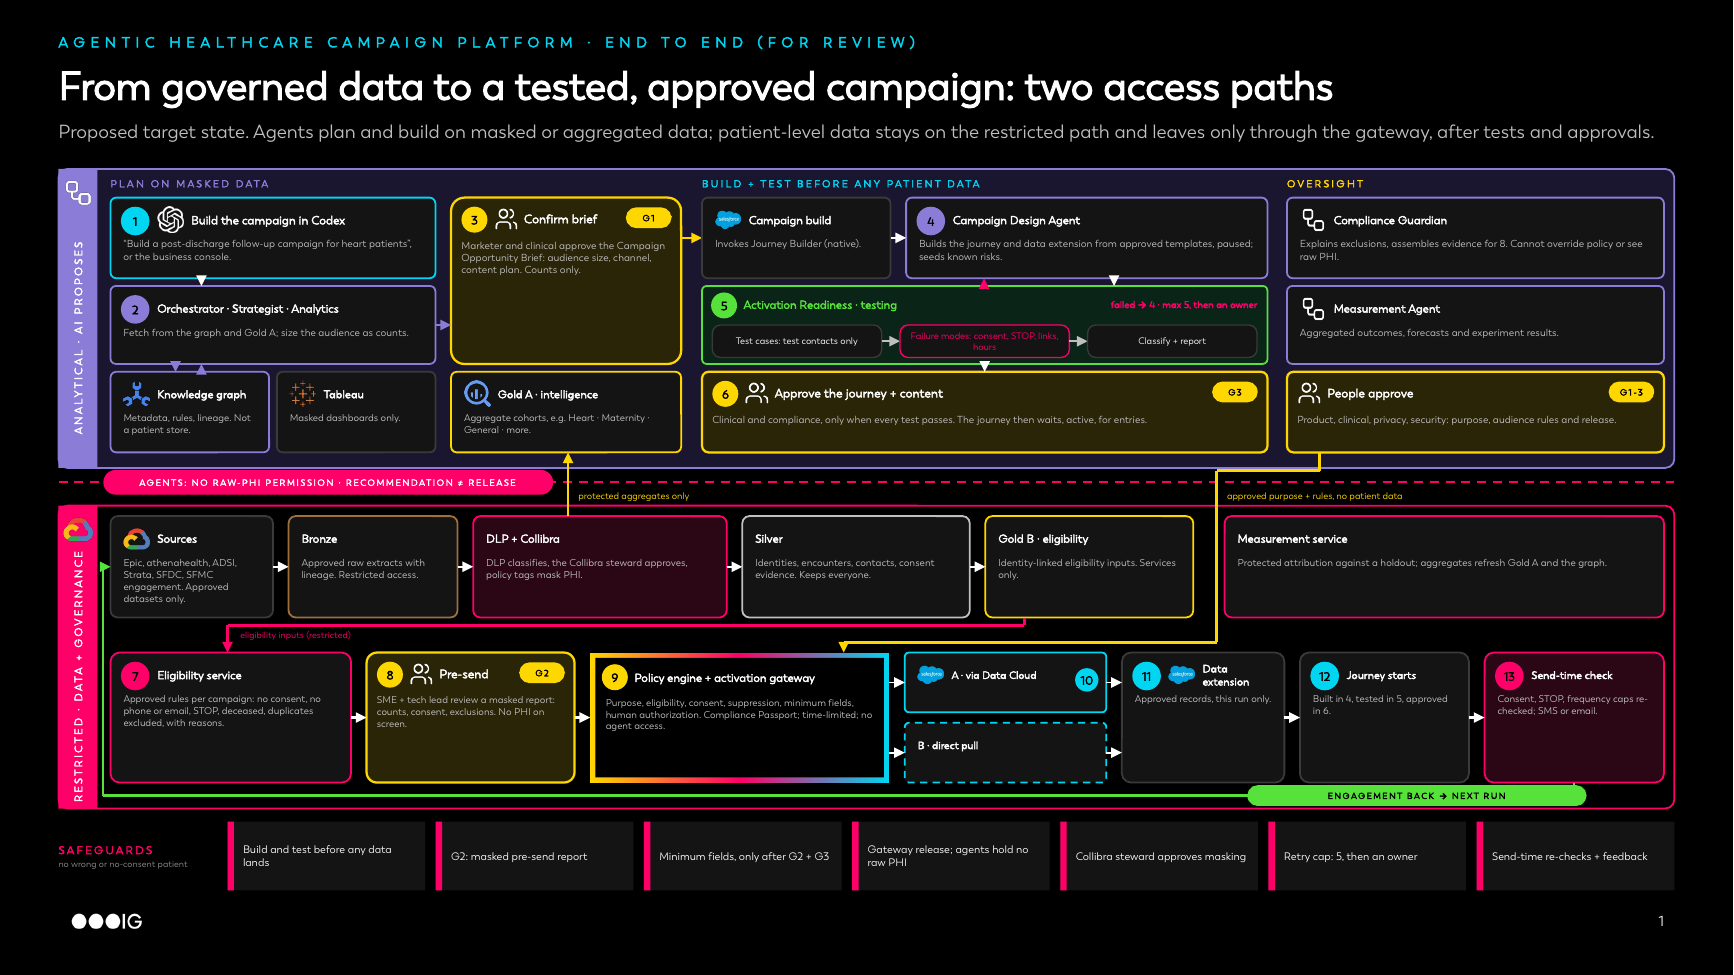
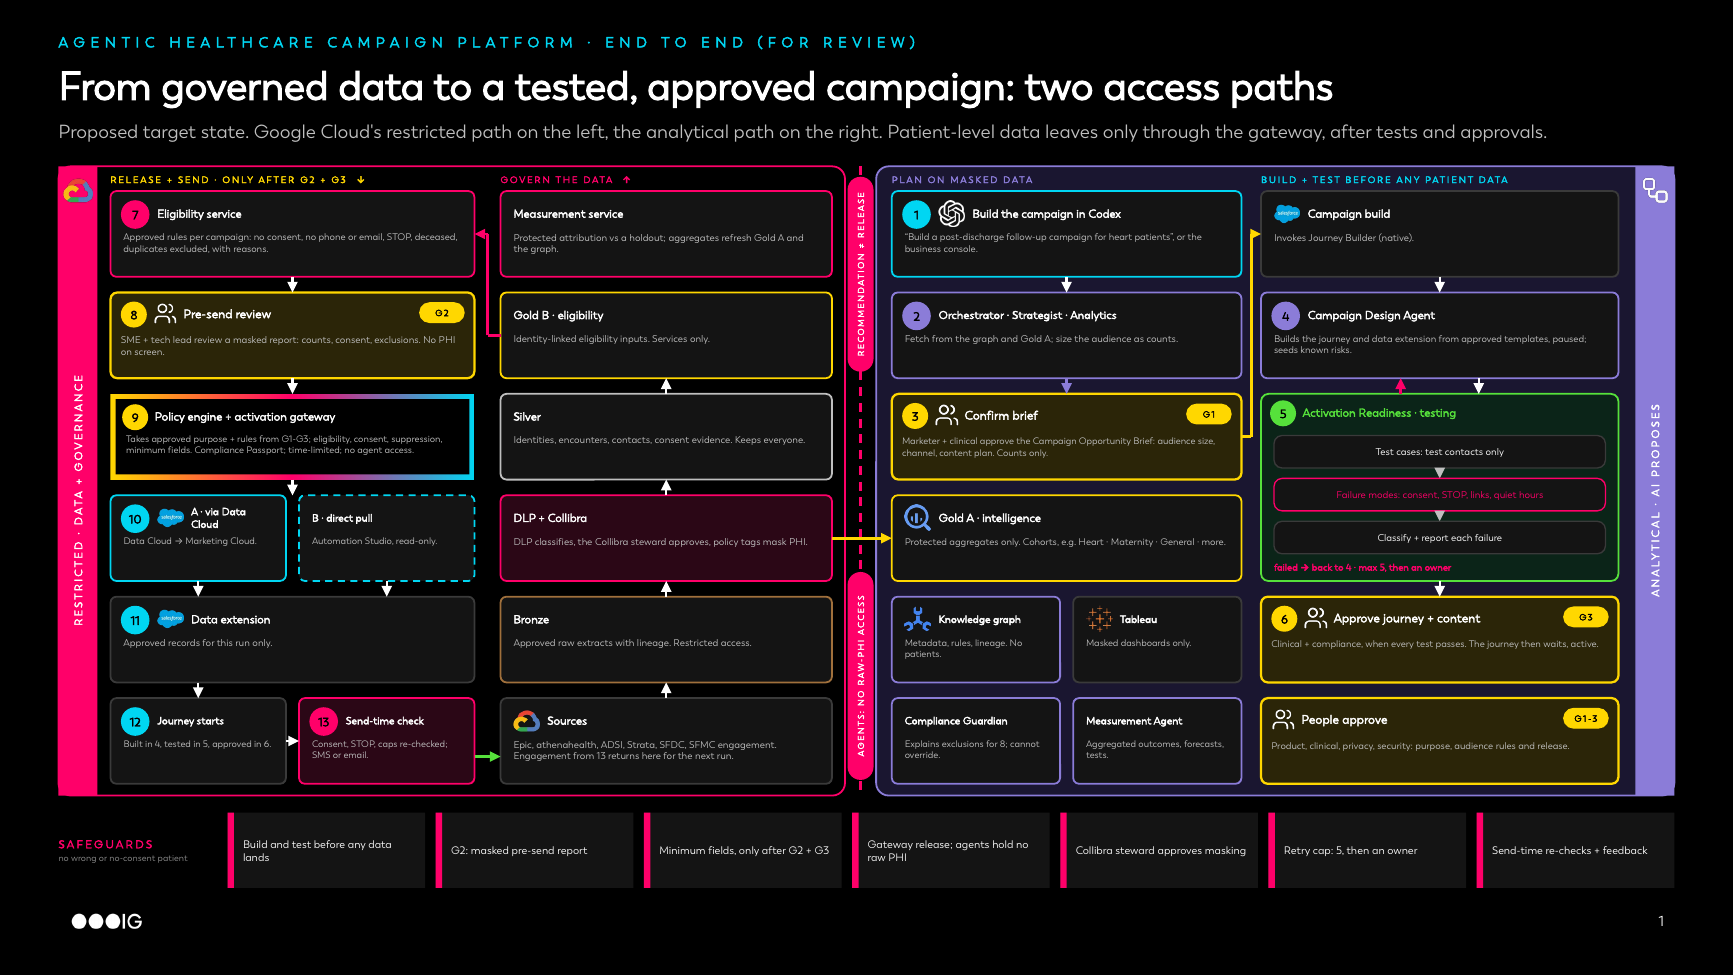
Combined review image: vertical layout, Google Cloud left, analytical right
Restricted data and release path on the left (data rises, release runs
top-down), analytical path on the right, vertical trust boundary between.
Image only; the deck is unchanged.

Claude-Session: https://claude.ai/code/session_01Hf94kqMzSofkkrQm7kpNba

diff --git a/poc/data_harness/combined_flow.py b/poc/data_harness/combined_flow.py
@@ -27,166 +27,144 @@ def build(prs, layout):
     s, cv = new_slide(prs, layout)
     dark_header(cv, "AGENTIC HEALTHCARE CAMPAIGN PLATFORM · END TO END (FOR REVIEW)",
                 "From governed data to a tested, approved campaign: two access paths",
-                "Proposed target state. Agents plan and build on masked or aggregated data; patient-level data stays "
-                "on the restricted path and leaves only through the gateway, after tests and approvals.")
-    # ---------------------------------------------------------------- analytical zone
-    zy, zh = 1.3, 2.3
-    cv.rect(0.45, zy, 12.43, zh, TINT[VIO], VIO, 1.0, R, 0.03)
-    side(cv, 0.45, zy, zh, "ANALYTICAL · AI PROPOSES", VIO, "harness")
-    r1, h1 = 1.52, 0.62
-    r2, h2 = 2.2, 0.6
-    r3, h3 = 2.86, 0.62
-    for x, t, c in ((0.85, "PLAN ON MASKED DATA", VIO), (5.4, "BUILD + TEST BEFORE ANY PATIENT DATA", CYAN),
-                    (9.9, "OVERSIGHT", YELLOW)):
-        cv.text(x, 1.32, 4.3, 0.18, t, size=5.6, bold=True, color=c, track=120, anchor=MSO_ANCHOR.MIDDLE)
-    # plan
-    lx, lw, rx, rw = 0.85, 2.5, 3.47, 1.77
-    item(cv, lx, r1, lw, h1, "Build the campaign in Codex", "“Build a post-discharge follow-up campaign for heart "
-         "patients”, or the business console.", line=CYAN, n=1, icon="openai-white", bsize=5.6, tsize=6.6)
-    item(cv, lx, r2, lw, h2, "Orchestrator · Strategist · Analytics", "Fetch from the graph and Gold A; size the "
-         "audience as counts.", line=VIO, n=2, ncolor=VIO, bsize=5.6, tsize=6.4)
-    gw_ = (lw - 0.06) / 2
-    item(cv, lx, r3, gw_, h3, "Knowledge graph", "Metadata, rules, lineage. Not a patient store.", line=VIO,
-         icon="googlecloudspanner", bsize=5.4, tsize=6.2)
-    item(cv, lx + gw_ + 0.06, r3, gw_, h3, "Tableau", "Masked dashboards only.", line=EDGE, icon="tableau",
-         bsize=5.4, tsize=6.2)
-    gatecard(cv, rx, r1, rw, r2 + h2 - r1, "G1", "Confirm brief", "Marketer and clinical approve the Campaign "
-             "Opportunity Brief: audience size, channel, content plan. Counts only.", n=3, bsize=5.6)
-    item(cv, rx, r3, rw, h3, "Gold A · intelligence", "Aggregate cohorts, e.g. Heart · Maternity · General · more.",
-         line=YELLOW, icon="googlebigquery", bsize=5.4, tsize=6.2)
-    cv.arrow(lx + 0.7, r1 + h1, lx + 0.7, r2, WHITE, 1.25)
-    cv.arrow(lx + 0.5, r2 + h2, lx + 0.5, r3, VIO, 1.25)
-    cv.arrow(lx + 0.7, r3, lx + 0.7, r2 + h2, VIO, 1.25)
-    cv.arrow(lx + lw, r2 + h2 / 2, rx, r2 + h2 / 2, VIO, 1.25)
-    cv.arrow(rx + rw, r1 + 0.31, 5.4, r1 + 0.31, YELLOW, 1.5)
-    # build + test
-    bx, bw = 5.4, 4.35
-    item(cv, bx, r1, 1.45, h1, "Campaign build", "Invokes Journey Builder (native).", icon="salesforce",
-         bsize=5.6, tsize=6.4)
-    dx = bx + 1.57
-    item(cv, dx, r1, bx + bw - dx, h1, "Campaign Design Agent", "Builds the journey and data extension from "
-         "approved templates, paused; seeds known risks.", line=VIO, n=4, ncolor=VIO, bsize=5.6, tsize=6.4)
-    cv.arrow(bx + 1.45, r1 + h1 / 2, dx, r1 + h1 / 2, WHITE, 1.25)
-    cv.rect(bx, r2, bw, h2, "0B2418", GREEN, 1.0, R, 0.06)
-    badge(cv, bx + 0.07, r2 + 0.05, 5, GREEN, 0.2)
-    cv.text(bx + 0.32, r2 + 0.02, 2.4, 0.24, "Activation Readiness · testing", size=6.4, bold=True, color=GREEN,
+                "Proposed target state. Google Cloud's restricted path on the left, the analytical path on the "
+                "right. Patient-level data leaves only through the gateway, after tests and approvals.")
+    zt, zb = 1.28, 6.12
+    rows = [1.47 + k * 0.78 for k in range(6)]
+    rh = 0.66
+
+    def mid(k):
+        return rows[k] + rh / 2
+    # ---------------------------------------------------------------- left: restricted (Google Cloud)
+    cv.rect(0.45, zt, 6.05, zb - zt, BLACK, MAGENTA, 1.0, R, 0.02)
+    side(cv, 0.45, zt, zb - zt, "RESTRICTED · DATA + GOVERNANCE", MAGENTA, "googlecloud")
+    ex, ew = 0.85, 2.8          # release + send, top-down
+    dx, dw = 3.85, 2.55         # governed data, bottom-up
+    cv.text(ex, 1.3, ew, 0.16, "RELEASE + SEND · ONLY AFTER G2 + G3  ↓", size=5.2, bold=True, color=YELLOW,
+            track=100, anchor=MSO_ANCHOR.MIDDLE)
+    cv.text(dx, 1.3, dw, 0.16, "GOVERN THE DATA  ↑", size=5.2, bold=True, color=MAGENTA, track=100,
             anchor=MSO_ANCHOR.MIDDLE)
-    cv.text(bx + 2.3, r2 + 0.02, bw - 2.38, 0.24, "failed → 4 · max 5, then an owner", size=5.4, bold=True,
-            color=MAGENTA, align=PP_ALIGN.RIGHT, anchor=MSO_ANCHOR.MIDDLE)
-    chips = [("Test cases: test contacts only", EDGE), ("Failure modes: consent, STOP, links, hours", MAGENTA),
-             ("Classify + report", EDGE)]
-    cw = (bw - 0.16 - 2 * 0.14) / 3
-    for k, (t, c) in enumerate(chips):
-        x = bx + 0.08 + k * (cw + 0.14)
-        cv.rect(x, r2 + 0.3, cw, 0.25, CARD, c, 0.75, R, 0.25)
-        cv.text(x, r2 + 0.3, cw, 0.25, t, size=5.2, color=MAGENTA if k == 1 else WHITE, align=PP_ALIGN.CENTER,
-                anchor=MSO_ANCHOR.MIDDLE)
-        if k < 2:
-            cv.arrow(x + cw, r2 + 0.425, x + cw + 0.14, r2 + 0.425, SOFT, 1.0)
-    cv.arrow(dx + 1.6, r1 + h1, dx + 1.6, r2, WHITE, 1.25)
-    cv.arrow(dx + 0.6, r2, dx + 0.6, r1 + h1, MAGENTA, 1.5)
-    gatecard(cv, bx, r3, bw, h3, "G3", "Approve the journey + content", "Clinical and compliance, only when every "
-             "test passes. The journey then waits, active, for entries.", n=6, bsize=5.6)
-    cv.arrow(bx + bw / 2, r2 + h2, bx + bw / 2, r3, WHITE, 1.25)
-    # oversight
-    ox, ow = 9.9, 2.9
-    item(cv, ox, r1, ow, h1, "Compliance Guardian", "Explains exclusions, assembles evidence for 8. Cannot override "
-         "policy or see raw PHI.", line=VIO, icon="harness", bsize=5.6, tsize=6.4)
-    item(cv, ox, r2, ow, h2, "Measurement Agent", "Aggregated outcomes, forecasts and experiment results.",
-         line=VIO, icon="harness", bsize=5.6, tsize=6.4)
-    gatecard(cv, ox, r3, ow, h3, "G1-3", "People approve", "Product, clinical, privacy, security: purpose, "
-             "audience rules and release.", bsize=5.6)
-    # ---------------------------------------------------------------- trust boundary
-    by = 3.71
-    cv.arrow(0.45, by, 12.88, by, MAGENTA, 1.25, dash="dash", head=False)
-    pill(cv, 0.8, by - 0.09, 3.45, "AGENTS: NO RAW-PHI PERMISSION · RECOMMENDATION ≠ RELEASE", MAGENTA, True,
-         h=0.18, size=5, tcolor=WHITE)
-    # ---------------------------------------------------------------- restricted zone
-    ry, rh = 3.89, 2.33
-    cv.rect(0.45, ry, 12.43, rh, BLACK, MAGENTA, 1.0, R, 0.03)
-    side(cv, 0.45, ry, rh, "RESTRICTED · DATA + GOVERNANCE", MAGENTA, "googlecloud")
-    ay, ah = 3.97, 0.78
-    rowa = [("Sources", "Epic, athenahealth, ADSI, Strata, SFDC, SFMC engagement. Approved datasets only.",
-             EDGE, CARD, "googlecloud", 1.25),
-            ("Bronze", "Approved raw extracts with lineage. Restricted access.", "A0703C", CARD, None, 1.3),
+    data = [("Measurement service", "Protected attribution vs a holdout; aggregates refresh Gold A and the graph.",
+             MAGENTA, CARD, None),
+            ("Gold B · eligibility", "Identity-linked eligibility inputs. Services only.", YELLOW, CARD, None),
+            ("Silver", "Identities, encounters, contacts, consent evidence. Keeps everyone.", SOFT, CARD, None),
             ("DLP + Collibra", "DLP classifies, the Collibra steward approves, policy tags mask PHI.", MAGENTA,
-             TINT[MAGENTA], None, 1.95),
-            ("Silver", "Identities, encounters, contacts, consent evidence. Keeps everyone.", SOFT, CARD, None, 1.75),
-            ("Gold B · eligibility", "Identity-linked eligibility inputs. Services only.", YELLOW, CARD, None, 1.6)]
-    x = 0.85
-    pos = {}
-    for t, d, ln, fl, ic, w in rowa:
-        item(cv, x, ay, w, ah, t, d, line=ln, fill=fl, icon=ic, bsize=5.5, tsize=6.4)
-        pos[t] = (x, w)
-        x += w + 0.12
-    mx = x + 0.12
-    item(cv, mx, ay, 12.8 - mx, ah, "Measurement service", "Protected attribution against a holdout; aggregates "
-         "refresh Gold A and the graph.", line=MAGENTA, bsize=5.5, tsize=6.4)
-    keys = [r[0] for r in rowa]
-    for k1, k2 in zip(keys, keys[1:]):
-        x1 = pos[k1][0] + pos[k1][1]
-        cv.arrow(x1, ay + ah / 2, x1 + 0.12, ay + ah / 2, WHITE, 1.25)
-    # DLP -> Gold A, across the boundary
-    gx_ = rx + 0.9
-    cv.arrow(gx_, ay, gx_, r3 + h3, YELLOW, 1.5)
-    cv.text(gx_ + 0.08, 3.75, 1.6, 0.12, "protected aggregates only", size=5.2, color=YELLOW,
-            anchor=MSO_ANCHOR.MIDDLE)
+             TINT[MAGENTA], None),
+            ("Bronze", "Approved raw extracts with lineage. Restricted access.", "A0703C", CARD, None),
+            ("Sources", "Epic, athenahealth, ADSI, Strata, SFDC, SFMC engagement. Engagement from 13 returns "
+             "here for the next run.", EDGE, CARD, "googlecloud")]
+    for k, (t, d, ln, fl, ic) in enumerate(data):
+        item(cv, dx, rows[k], dw, rh, t, d, line=ln, fill=fl, icon=ic, bsize=5.4, tsize=6.4)
+    for k in range(5, 1, -1):                      # Sources -> Bronze -> DLP -> Silver -> Gold B
+        cv.arrow(dx + dw / 2, rows[k], dx + dw / 2, rows[k - 1] + rh, WHITE, 1.25)
     # release + send
-    by_, bh = 5.02, 1.0
-    bx_ = [0.85]
-    widths = [1.85, 1.6, 2.3, 1.55, 1.25, 1.3]
-    for w in widths:
-        bx_.append(bx_[-1] + w + 0.12)
-    sw_last = 12.8 - bx_[-1]
-    item(cv, bx_[0], by_, widths[0], bh, "Eligibility service", "Approved rules per campaign: no consent, no phone "
-         "or email, STOP, deceased, duplicates excluded, with reasons.", line=MAGENTA, n=7, ncolor=MAGENTA,
-         bsize=5.4, tsize=6.4)
-    gatecard(cv, bx_[1], by_, widths[1], bh, "G2", "Pre-send", "SME + tech lead review a masked report: counts, "
+    item(cv, ex, rows[0], ew, rh, "Eligibility service", "Approved rules per campaign: no consent, no phone or "
+         "email, STOP, deceased, duplicates excluded, with reasons.", line=MAGENTA, n=7, ncolor=MAGENTA,
+         bsize=5.3, tsize=6.4)
+    gatecard(cv, ex, rows[1], ew, rh, "G2", "Pre-send review", "SME + tech lead review a masked report: counts, "
              "consent, exclusions. No PHI on screen.", n=8, bsize=5.4)
-    fx, fy, fw, fh = cv.frame(bx_[2], by_, widths[2], bh, BLACK, 0.04)
-    badge(cv, fx + 0.05, fy + 0.05, 9, YELLOW, 0.2)
-    cv.text(fx + 0.3, fy + 0.02, fw - 0.34, 0.26, "Policy engine + activation gateway", size=6.4, bold=True,
+    fx, fy, fw, fh = cv.frame(ex, rows[2], ew, rh, BLACK, 0.04)
+    badge(cv, fx + 0.05, fy + 0.04, 9, YELLOW, 0.2)
+    cv.text(fx + 0.3, fy + 0.01, fw - 0.34, 0.24, "Policy engine + activation gateway", size=6.4, bold=True,
             color=WHITE, anchor=MSO_ANCHOR.MIDDLE)
-    cv.text(fx + 0.08, fy + 0.3, fw - 0.14, fh - 0.32, "Purpose, eligibility, consent, suppression, minimum fields, "
-            "human authorization. Compliance Passport; time-limited; no agent access.", size=5.4, color=SOFT)
-    ph = (bh - 0.08) / 2
-    item(cv, bx_[3], by_, widths[3], ph, "A · via Data Cloud", None, line=CYAN, icon="salesforce", tsize=5.8)
-    item(cv, bx_[3], by_ + ph + 0.08, widths[3], ph, "B · direct pull", None, line=CYAN, dash="dash", tsize=5.8)
-    badge(cv, bx_[3] + widths[3] - 0.24, by_ + 0.12, 10, CYAN, 0.18)
-    item(cv, bx_[4], by_, widths[4], bh, "Data extension", "Approved records, this run only.", n=11,
-         icon="salesforce", bsize=5.4, tsize=6.0)
-    item(cv, bx_[5], by_, widths[5], bh, "Journey starts", "Built in 4, tested in 5, approved in 6.", n=12,
-         bsize=5.4, tsize=6.0)
-    item(cv, bx_[6], by_, sw_last, bh, "Send-time check", "Consent, STOP, frequency caps re-checked; SMS or email.",
-         line=MAGENTA, fill=TINT[MAGENTA], n=13, ncolor=MAGENTA, bsize=5.4, tsize=6.0)
-    mid = by_ + bh / 2
-    for k in range(6):
-        if k == 2:
-            for yy in (by_ + ph / 2, by_ + ph + 0.08 + ph / 2):
-                cv.arrow(bx_[2] + widths[2], yy, bx_[3], yy, WHITE, 1.0)
-        elif k == 3:
-            for yy in (by_ + ph / 2, by_ + ph + 0.08 + ph / 2):
-                cv.arrow(bx_[3] + widths[3], yy, bx_[4], yy, WHITE, 1.0)
-        else:
-            cv.arrow(bx_[k] + widths[k], mid, bx_[k + 1], mid, WHITE, 1.25)
-    # Gold B -> eligibility (channel between the rows)
-    gbx, gbw = pos["Gold B · eligibility"]
-    path(cv, [(gbx + 0.3, ay + ah), (gbx + 0.3, 4.81), (bx_[0] + 0.9, 4.81), (bx_[0] + 0.9, by_)], MAGENTA, 1.5)
-    cv.text(bx_[0] + 1.0, 4.82, 2.2, 0.13, "eligibility inputs (restricted)", size=5, color=MAGENTA,
+    cv.text(fx + 0.08, fy + 0.26, fw - 0.14, fh - 0.27, "Takes approved purpose + rules from G1-G3; eligibility, consent, "
+            "suppression, minimum fields. Compliance Passport; time-limited; no agent access.", size=5.2,
+            color=SOFT)
+    hw = (ew - 0.1) / 2
+    item(cv, ex, rows[3], hw, rh, "A · via Data Cloud", "Data Cloud → Marketing Cloud.", line=CYAN, n=10,
+         icon="salesforce", bsize=5.2, tsize=5.8)
+    item(cv, ex + hw + 0.1, rows[3], hw, rh, "B · direct pull", "Automation Studio, read-only.", line=CYAN,
+         dash="dash", bsize=5.2, tsize=5.8)
+    item(cv, ex, rows[4], ew, rh, "Data extension", "Approved records for this run only.", n=11, icon="salesforce",
+         bsize=5.4, tsize=6.4)
+    item(cv, ex, rows[5], hw, rh, "Journey starts", "Built in 4, tested in 5, approved in 6.", n=12, bsize=5.2,
+         tsize=5.8)
+    item(cv, ex + hw + 0.1, rows[5], hw, rh, "Send-time check", "Consent, STOP, caps re-checked; SMS or email.",
+         line=MAGENTA, fill=TINT[MAGENTA], n=13, ncolor=MAGENTA, bsize=5.2, tsize=5.8)
+    for k in (0, 1, 2):
+        cv.arrow(ex + ew / 2, rows[k] + rh, ex + ew / 2, rows[k + 1], WHITE, 1.25)
+    for x in (ex + hw / 2, ex + hw + 0.1 + hw / 2):
+        cv.arrow(x, rows[3] + rh, x, rows[4], WHITE, 1.0)
+    cv.arrow(ex + hw / 2, rows[4] + rh, ex + hw / 2, rows[5], WHITE, 1.25)
+    cv.arrow(ex + hw, mid(5), ex + hw + 0.1, mid(5), WHITE, 1.25)
+    # Gold B -> eligibility, in the gap between the two columns
+    gx = (ex + ew + dx) / 2
+    path(cv, [(dx, mid(1)), (gx, mid(1)), (gx, mid(0)), (ex + ew, mid(0))], MAGENTA, 1.5)
+    # engagement back: send-time check -> sources (same row)
+    cv.arrow(ex + ew, mid(5) + 0.12, dx, mid(5) + 0.12, GREEN, 1.5)
+    # ---------------------------------------------------------------- trust boundary (vertical)
+    bxl = 6.62
+    cv.arrow(bxl, zt, bxl, zb, MAGENTA, 1.25, dash="dash", head=False)
+    for y0, y1, t in ((1.36, 2.86, "RECOMMENDATION ≠ RELEASE"), (4.4, 6.0, "AGENTS: NO RAW-PHI ACCESS")):
+        cv.rect(bxl - 0.1, y0, 0.2, y1 - y0, MAGENTA, None, shape=R, radius=0.5)
+        tb = cv.text(bxl - (y1 - y0) / 2, (y0 + y1) / 2 - 0.1, y1 - y0, 0.2, t, size=4.8, bold=True, color=WHITE,
+                     align=PP_ALIGN.CENTER, anchor=MSO_ANCHOR.MIDDLE, track=80)
+        tb.rotation = 270
+    # ---------------------------------------------------------------- right: analytical
+    ax0 = 6.74
+    cv.rect(ax0, zt, 12.88 - ax0, zb - zt, TINT[VIO], VIO, 1.0, R, 0.02)
+    side(cv, 12.58, zt, zb - zt, "ANALYTICAL · AI PROPOSES", VIO, "harness")
+    px, pw = 6.86, 2.69
+    bx, bw = 9.7, 2.75
+    cv.text(px, 1.3, pw, 0.16, "PLAN ON MASKED DATA", size=5.2, bold=True, color=VIO, track=100,
             anchor=MSO_ANCHOR.MIDDLE)
-    # approvals -> gateway, down the corridor next to the measurement service
-    cx_ = mx - 0.06
-    path(cv, [(ox + 0.25, r3 + h3), (ox + 0.25, 3.62), (cx_, 3.62), (cx_, 4.94), (bx_[2] + widths[2] - 0.35, 4.94),
-              (bx_[2] + widths[2] - 0.35, by_)], YELLOW, 1.5)
-    cv.text(cx_ + 0.08, 3.75, 2.4, 0.12, "approved purpose + rules, no patient data", size=5.2, color=YELLOW,
-            anchor=MSO_ANCHOR.MIDDLE)
-    # engagement feedback
-    fy_ = 6.12
-    path(cv, [(bx_[6] + sw_last / 2, by_ + bh), (bx_[6] + sw_last / 2, fy_), (0.79, fy_), (0.79, ay + ah / 2),
-              (0.85, ay + ah / 2)], GREEN, 1.25)
-    pill(cv, 9.6, fy_ - 0.075, 2.6, "ENGAGEMENT BACK → NEXT RUN", GREEN, True, h=0.15, size=4.8)
+    cv.text(bx, 1.3, bw, 0.16, "BUILD + TEST BEFORE ANY PATIENT DATA", size=5.2, bold=True, color=CYAN,
+            track=100, anchor=MSO_ANCHOR.MIDDLE)
+    item(cv, px, rows[0], pw, rh, "Build the campaign in Codex", "“Build a post-discharge follow-up campaign for "
+         "heart patients”, or the business console.", line=CYAN, n=1, icon="openai-white", bsize=5.3, tsize=6.4)
+    item(cv, px, rows[1], pw, rh, "Orchestrator · Strategist · Analytics", "Fetch from the graph and Gold A; size "
+         "the audience as counts.", line=VIO, n=2, ncolor=VIO, bsize=5.4, tsize=6.2)
+    gatecard(cv, px, rows[2], pw, rh, "G1", "Confirm brief", "Marketer + clinical approve the Campaign Opportunity "
+             "Brief: audience size, channel, content plan. Counts only.", n=3, bsize=5.2)
+    item(cv, px, rows[3], pw, rh, "Gold A · intelligence", "Protected aggregates only. Cohorts, e.g. Heart · "
+         "Maternity · General · more.", line=YELLOW, icon="googlebigquery", bsize=5.3, tsize=6.4)
+    hw2 = (pw - 0.1) / 2
+    item(cv, px, rows[4], hw2, rh, "Knowledge graph", "Metadata, rules, lineage. No patients.", line=VIO,
+         icon="googlecloudspanner", bsize=5.2, tsize=5.8)
+    item(cv, px + hw2 + 0.1, rows[4], hw2, rh, "Tableau", "Masked dashboards only.", icon="tableau", bsize=5.2,
+         tsize=5.8)
+    item(cv, px, rows[5], hw2, rh, "Compliance Guardian", "Explains exclusions for 8; cannot override.", line=VIO,
+         bsize=5.2, tsize=5.8)
+    item(cv, px + hw2 + 0.1, rows[5], hw2, rh, "Measurement Agent", "Aggregated outcomes, forecasts, tests.",
+         line=VIO, bsize=5.2, tsize=5.8)
+    cv.arrow(px + pw / 2, rows[0] + rh, px + pw / 2, rows[1], WHITE, 1.25)
+    cv.arrow(px + pw / 2, rows[1] + rh, px + pw / 2, rows[2], VIO, 1.25)
+    # DLP + Collibra -> Gold A across the boundary
+    cv.arrow(dx + dw, mid(3), px, mid(3), YELLOW, 1.5)
+    # build + test
+    item(cv, bx, rows[0], bw, rh, "Campaign build", "Invokes Journey Builder (native).", icon="salesforce",
+         bsize=5.4, tsize=6.4)
+    item(cv, bx, rows[1], bw, rh, "Campaign Design Agent", "Builds the journey and data extension from approved "
+         "templates, paused; seeds known risks.", line=VIO, n=4, ncolor=VIO, bsize=5.3, tsize=6.4)
+    ty, th = rows[2], rows[3] + rh - rows[2]
+    cv.rect(bx, ty, bw, th, "0B2418", GREEN, 1.0, R, 0.04)
+    badge(cv, bx + 0.07, ty + 0.05, 5, GREEN, 0.2)
+    cv.text(bx + 0.32, ty + 0.02, bw - 0.4, 0.24, "Activation Readiness · testing", size=6.4, bold=True,
+            color=GREEN, anchor=MSO_ANCHOR.MIDDLE)
+    chips = [("Test cases: test contacts only", EDGE), ("Failure modes: consent, STOP, links, quiet hours", MAGENTA),
+             ("Classify + report each failure", EDGE)]
+    for k, (t, c) in enumerate(chips):
+        y = ty + 0.32 + k * 0.33
+        cv.rect(bx + 0.1, y, bw - 0.2, 0.25, CARD, c, 0.75, R, 0.25)
+        cv.text(bx + 0.1, y, bw - 0.2, 0.25, t, size=5.4, color=MAGENTA if k == 1 else WHITE,
+                align=PP_ALIGN.CENTER, anchor=MSO_ANCHOR.MIDDLE)
+        if k < 2:
+            cv.arrow(bx + bw / 2, y + 0.25, bx + bw / 2, y + 0.33, SOFT, 1.0)
+    cv.text(bx + 0.1, ty + th - 0.2, bw - 0.2, 0.18, "failed → back to 4 · max 5, then an owner", size=5.3,
+            bold=True, color=MAGENTA, anchor=MSO_ANCHOR.MIDDLE)
+    gatecard(cv, bx, rows[4], bw, rh, "G3", "Approve journey + content", "Clinical + compliance, when every test "
+             "passes. The journey then waits, active.", n=6, bsize=5.3)
+    gatecard(cv, bx, rows[5], bw, rh, "G1-3", "People approve", "Product, clinical, privacy, security: purpose, "
+             "audience rules and release.", bsize=5.3)
+    cv.arrow(bx + bw / 2, rows[0] + rh, bx + bw / 2, rows[1], WHITE, 1.25)
+    cv.arrow(bx + bw / 2 + 0.3, rows[1] + rh, bx + bw / 2 + 0.3, ty, WHITE, 1.25)
+    cv.arrow(bx + bw / 2 - 0.3, ty, bx + bw / 2 - 0.3, rows[1] + rh, MAGENTA, 1.5)
+    cv.arrow(bx + bw / 2, ty + th, bx + bw / 2, rows[4], WHITE, 1.25)
+    # G1 -> campaign build
+    gc = (px + pw + bx) / 2
+    path(cv, [(px + pw, mid(2)), (gc, mid(2)), (gc, mid(0)), (bx, mid(0))], YELLOW, 1.5)
     # ---------------------------------------------------------------- safeguards
-    sy, sh = 6.32, 0.53
+    sy, sh = 6.25, 0.58
     cv.text(0.45, sy, 1.25, sh, [[("SAFEGUARDS", {"bold": True, "color": MAGENTA, "track": 120})],
                                  [("no wrong or no-consent patient", {"color": DIM, "size": 5})]], size=6.2,
             anchor=MSO_ANCHOR.MIDDLE, after=1)
